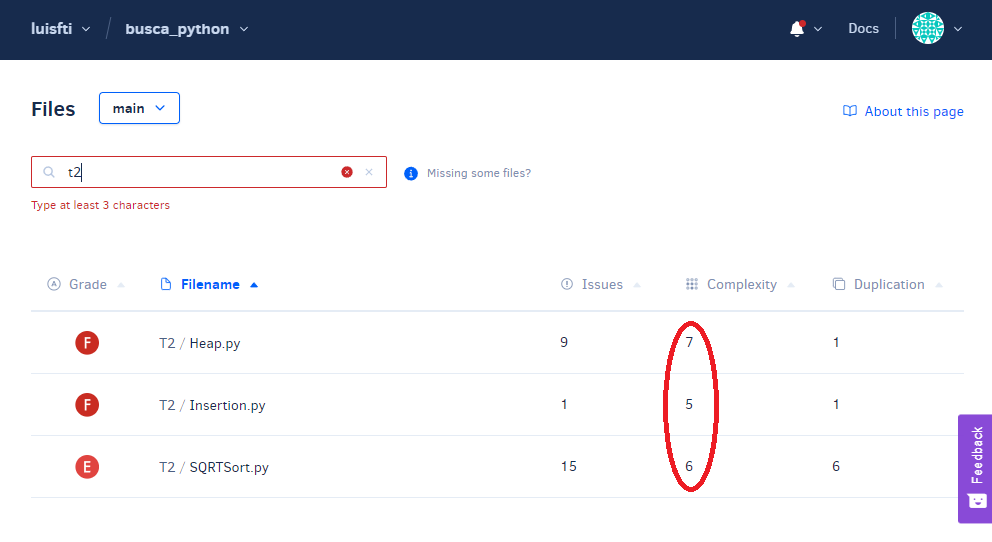
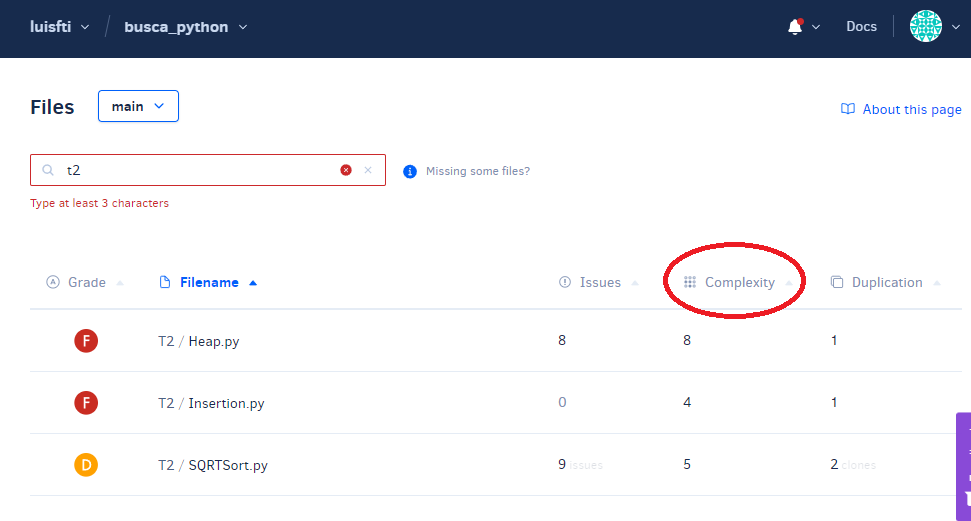
update complex

diff --git a/T2/Heap.py b/T2/Heap.py
@@ -1,32 +1,24 @@
-# Ordenação de raiz usando Heap
 def sqrt_heap_sort(arr):
     n = len(arr)
-    block_size = int(math.sqrt(n))  # Tamanho do bloco
-    
-    # Dividindo a lista em blocos
+    block_size = int(math.sqrt(n))
     blocks = [arr[i:i+block_size] for i in range(0, n, block_size)]
     
-    # Construindo heaps máximos de cada bloco
     block_heaps = []
     for block in blocks:
-        heapq._heapify_max(block)  # Construtor para heaps máximos
+        heapq._heapify_max(block)
         block_heaps.append(block)
     
-    # Construção da heap auxiliar
     max_heap = []
     for i in range(len(block_heaps)):
         if block_heaps[i]:
-            heapq.heappush(max_heap, (-block_heaps[i][0], i))  # Usa - para simular heap máximo
+            heapq.heappush(max_heap, (-block_heaps[i][0], i))
     
-    # Ordenando os elementos
     sorted_arr = []
     while max_heap:
-        max_value, block_index = heapq.heappop(max_heap)  # Remove o maior elemento
-        sorted_arr.append(-max_value)  # Adiciona o valor original ao resultado
+        max_value, block_index = heapq.heappop(max_heap)
+        sorted_arr.append(-max_value)
         if block_heaps[block_index]:
-            # Remove o maior elemento do bloco
             heapq._heappop_max(block_heaps[block_index])
-            # Se ainda há elementos no bloco, re-adiciona o maior elemento
             if block_heaps[block_index]:
                 heapq.heappush(max_heap, (-block_heaps[block_index][0], block_index))
     

diff --git a/T2/Insertion.py b/T2/Insertion.py
@@ -1,9 +1,25 @@
-# Insertion Sort
-def insertion_sort(arr):
-    for i in range(1, len(arr)):
-        key = arr[i]  # Elemento a ser comparado
-        j = i - 1
-        while j >= 0 and key < arr[j]:
-            arr[j + 1] = arr[j]
-            j -= 1
-        arr[j + 1] = key  # Insere o elemento na posição correta
+def sqrt_heap_sort(arr):
+    n = len(arr)
+    block_size = int(math.sqrt(n))
+    blocks = [arr[i:i+block_size] for i in range(0, n, block_size)]
+    block_heaps = []
+
+    for block in blocks:
+        heapq._heapify_max(block)
+        block_heaps.append(block)
+    
+    max_heap = []
+    for i in range(len(block_heaps)):
+        if block_heaps[i]:
+            heapq.heappush(max_heap, (-block_heaps[i][0], i))  
+    
+    sorted_arr = []
+    while max_heap:
+        max_value, block_index = heapq.heappop(max_heap)
+        sorted_arr.append(-max_value)
+        if block_heaps[block_index]:
+            heapq._heappop_max(block_heaps[block_index])
+            if block_heaps[block_index]:
+                heapq.heappush(max_heap, (-block_heaps[block_index][0], block_index))
+    
+    return sorted_arr
